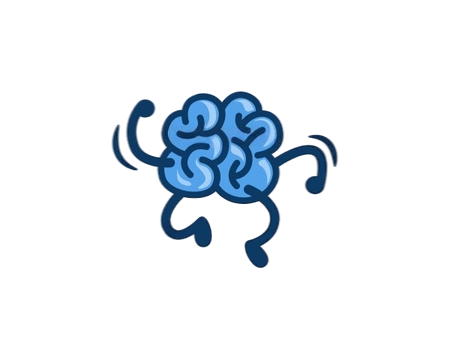
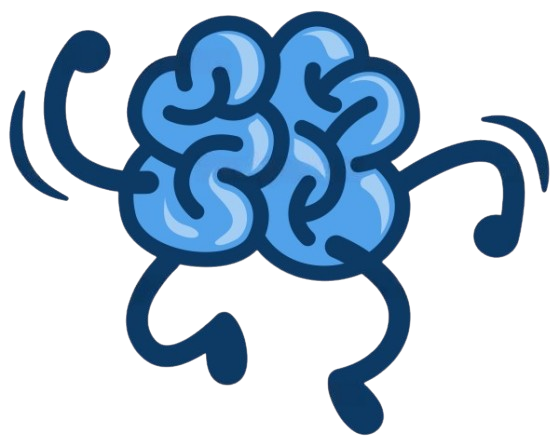
Revisi Auth Page

diff --git a/src/pages/auth/LoginPage.jsx b/src/pages/auth/LoginPage.jsx
@@ -49,13 +49,13 @@ const LoginPage = () => {
               <img
                 src="/assets/images/QuizMate Icon.png"
                 alt="Logo"
-                className="w-96 h-96 sm:w-28 sm:h-28 object-contain "
+                className="w-52 h-52 object-contain "
               />
             </div>
-            <h1 className="text-2xl sm:text-3xl font-bold text-gray-900 mb-2">
+            <h1 className="text-3xl font-bold text-gray-900 mb-2">
               Selamat Datang Kembali
             </h1>
-            <p className="text-xs sm:text-sm text-gray-600">
+            <p className=" text-gray-600">
               Masukkan username dan password untuk login
             </p>
           </div>

diff --git a/src/pages/auth/RegisterPage.jsx b/src/pages/auth/RegisterPage.jsx
@@ -67,7 +67,7 @@ const RegisterPage = () => {
               <img
                 src="/assets/images/QuizMate Icon.png"
                 alt="Number 9"
-                className="w-32 h-32 object-contain"
+                className="w-52 h-52 object-contain"
               />
             </div>
             <h1 className="text-3xl font-bold text-gray-900 mb-2">
